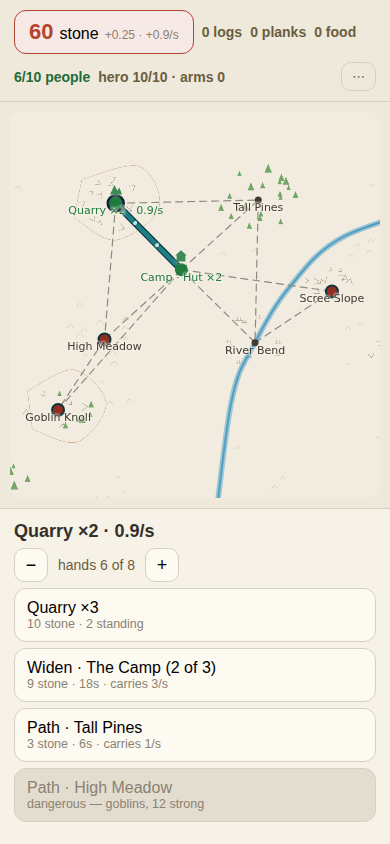
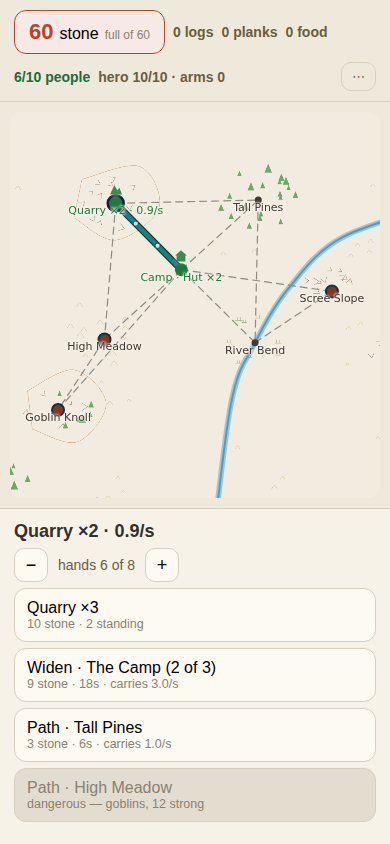
THE CARTWRIGHT: the one exponential that runs for the player
The coherence review's top finding was that every exponential in this
engine runs AGAINST the player. CURVE 1.35, armsCost 1.3 and storeCost
1.3 all compound upward, while output is strictly linear in a hard-capped
population. There was no player-side exponential anywhere.

THE BACKLOG ASKED FOR A PRODUCTION MULTIPLIER AND IT WOULD HAVE BEEN A
NO-OP. Measured before building, on a finished town — every site stacked
eight deep, every path at MAX_GAUGE, 162 people:

  makes    57.9/s
  carries  13.9/s
  wasted   76%, at the paths

MAX_GAUGE is a hard ceiling, so multiplying RATE would have multiplied
the waste and delivered nothing to the player. The exponential therefore
goes where the wall is: a cart rung multiplies what every gauge CARRIES,
which turns that dead 76% into the reward. Design rule 3 says the graph
is the logistics layer, so a multiplier on haulage is the one that
belongs on this game's board.

CART_GAIN 1.3 against a cost curve of 1.55, so each rung takes about
1.19x as long as the last — a curve, not a wall. Measured payoff on that
same maxed town: 13.9/s at no carts climbing to 48.7/s at eight, every
rung strictly better than the last, and never more than the town makes.

It runs out on purpose. A findable number of rungs fully un-chokes a
given town, after which carts buy nothing until more works are built.
Carts and works leapfrog, and the works ladder is unbounded, so the pair
is too.
[…]

Changed region(s): [[0.2769, 0.0, 0.9231, 0.0616], [0.4, 0.8009, 0.4615, 0.8318], [0.4, 0.8626, 0.4308, 0.8934]]

diff --git a/test/campbuilder.test.ts b/test/campbuilder.test.ts
@@ -9,6 +9,7 @@ import { apply, initial, flow, shown, popCap, pathKey, costOf, pathCostOf, heroM
   TAP_STONE, RATE, BASE, HUT_ROOM, GROW_SECS, CARRY, SITES, GOBLINS, CREW, GOBLIN_REGEN,
   PATH_COST, PATH_SECS, lineOf, windup, WINDUP_EVERY, regenOf, catchUp, STEP_SECS, SITE,
   richOf, MAX_GAUGE, roomOf, storeCost, STORE_BASE, STORE_ROOM,
+  carriesOf, cartCost, cartHaul, CART_GAIN,
   RATION_FOOD, RATION_HP, RATION_PACK,
   HERO_HP, HEAL_SECS, WILD_FED, EAT, CAPTIVES, type City } from '../src/camp/engine';
 import { honour } from '../src/camp/store';
@@ -1075,5 +1076,120 @@ describe('★★★ THE STOREHOUSE — a ceiling on every good', () => {
     // An old save with no storehouses at all loads at zero.
     const { store: _, ...old } = initial();
     expect(honour({ game: old as never, savedAt: 1 })!.game.store).toBe(0);
+  });
+});
+
+// ---------------------------------------------------------------------------
+// ★★★ THE CARTWRIGHT, 2026-08-08 — the coherence review's top finding: every
+// exponential in this engine runs AGAINST the player. This is the one that
+// runs for them, and it runs on the GRAPH, because the graph is where a
+// finished town's work was being thrown away.
+// ---------------------------------------------------------------------------
+describe('★★★ THE CARTWRIGHT — the one exponential that runs for the player', () => {
+  /** A finished town: every site stacked, every path at MAX_GAUGE, full pop. */
+  const maxed = (carts: number): City => {
+    const g: City = { ...initial(), goblins: {}, food: 9e5, stone: 9e5,
+      planks: 9e5, logs: 9e5, carts, stacks: {}, paths: {} };
+    for (const s of SITES) g.stacks[s.id] = s.id === 0 ? 40 : 8;
+    for (const s of SITES) for (const n of s.near) g.paths[pathKey(s.id, n)] = MAX_GAUGE;
+    return { ...g, pop: popCap(g) };
+  };
+  const totals = (g: City): { made: number; carried: number } => {
+    const f = flow(g);
+    let made = 0, carried = 0;
+    for (const s of SITES) {
+      if (s.id === 0) continue;
+      made += f.made.get(s.id) ?? 0;
+      carried += f.carried.get(s.id) ?? 0;
+    }
+    return { made, carried };
+  };
+
+  it('★★★ THE MEASUREMENT THAT CHOSE THE DESIGN — a maxed town wastes most of its work', () => {
+    // This is why the backlog's "multiply RATE.quarry" would have been a
+    // no-op: at MAX_GAUGE on every path, a finished town already throws
+    // away three quarters of what it makes. Multiplying production
+    // multiplies the waste. If this ever stops being true, the cartwright
+    // is aimed at the wrong wall and this test is the alarm.
+    const { made, carried } = totals(maxed(0));
+    expect(made).toBeGreaterThan(50);
+    expect(carried).toBeLessThan(made * 0.3);
+  });
+
+  it('★★ a cart rung raises what EVERY path carries', () => {
+    const g = maxed(0);
+    const key = pathKey(0, 4);
+    expect(carriesOf(g, key)).toBeCloseTo(MAX_GAUGE * CARRY, 9);
+    expect(carriesOf({ ...g, carts: 1 }, key))
+      .toBeCloseTo(MAX_GAUGE * CARRY * CART_GAIN, 9);
+    expect(carriesOf({ ...g, carts: 3 }, key))
+      .toBeCloseTo(MAX_GAUGE * CARRY * CART_GAIN ** 3, 9);
+    // A path that is not laid carries nothing, carts or no carts. (1 and 9
+    // are not neighbours, so this key is not in `paths` at all.)
+    expect(carriesOf({ ...g, carts: 9 }, pathKey(1, 9))).toBe(0);
+  });
+
+  it('★★★ EVERY RUNG BUYS REAL INCOME, and the ladder compounds', () => {
+    // Measured, not asserted in the abstract: 13.9/s at no carts climbing
+    // past 48/s at eight, every single rung strictly better than the last.
+    let last = 0;
+    for (let c = 0; c <= 8; c++) {
+      const now = totals(maxed(c)).carried;
+      expect(now).toBeGreaterThan(last);
+      last = now;
+    }
+    expect(totals(maxed(0)).carried).toBeGreaterThan(13);
+    expect(totals(maxed(8)).carried).toBeGreaterThan(totals(maxed(0)).carried * 3);
+  });
+
+  it('★★ it can never carry MORE than the town makes — it opens a wall, it does not mint', () => {
+    // The one way a throughput multiplier could become a cheat.
+    for (const c of [0, 4, 12, 40]) {
+      const { made, carried } = totals(maxed(c));
+      expect(carried).toBeLessThanOrEqual(made + 1e-6);
+    }
+    // And at absurd carts the town delivers everything it makes, no more.
+    expect(totals(maxed(40)).carried).toBeCloseTo(totals(maxed(40)).made, 4);
+  });
+
+  it('★ carts run out on a given town — they leapfrog with the works', () => {
+    // A finite, findable number of rungs un-chokes a maxed town; past that
+    // a cart buys nothing until more works are built. That is the pair of
+    // ladders, working — and it is why the cartwright's deed is offered
+    // only while something is actually being wasted.
+    let enough = -1;
+    for (let c = 0; c <= 40 && enough < 0; c++) {
+      if (flow(maxed(c)).choked.size === 0) enough = c;
+    }
+    expect(enough).toBeGreaterThan(0);
+    expect(enough).toBeLessThan(20);
+    // At that rung the town delivers everything it makes...
+    const { made, carried } = totals(maxed(enough));
+    expect(carried).toBeCloseTo(made, 4);
+    // ...and three times the works chokes the same carts all over again.
+    const bigger: City = { ...maxed(enough), stacks: { ...maxed(enough).stacks } };
+    for (const s of SITES) if (s.id !== 0) bigger.stacks[s.id] = 24;
+    expect(flow({ ...bigger, pop: popCap(bigger) }).choked.size).toBeGreaterThan(0);
+  });
+
+  it('★★ cost is steeper than the gain, so a rung is earned', () => {
+    expect(cartCost(0)).toEqual({ stone: 30, planks: 20 });
+    expect(cartCost(4).stone).toBe(Math.ceil(30 * 1.55 ** 4));
+    // 1.55 against a 1.3 haul: the ladder slows, it never stops.
+    expect(1.55).toBeGreaterThan(CART_GAIN);
+    const g = apply({ ...initial(), stone: 50, planks: 30 }, { type: 'cart' });
+    expect(g.carts).toBe(1);
+    expect(g.stone).toBe(20);
+    expect(g.planks).toBe(10);
+    const broke = initial();
+    expect(apply(broke, { type: 'cart' })).toBe(broke);
+  });
+
+  it('a cart count is whole at the save door, and old saves load at none', () => {
+    expect(honour({ game: { ...initial(), carts: 3 }, savedAt: 1 })).not.toBeNull();
+    expect(honour({ game: { ...initial(), carts: 2.5 }, savedAt: 1 })).toBeNull();
+    expect(honour({ game: { ...initial(), carts: -1 }, savedAt: 1 })).toBeNull();
+    const { carts: _, ...old } = initial();
+    expect(honour({ game: old as never, savedAt: 1 })!.game.carts).toBe(0);
   });
 });

diff --git a/src/camp/engine.ts b/src/camp/engine.ts
@@ -162,6 +162,9 @@ export interface City {
   /** ★ STOREHOUSES at the camp — how many stand. They are the CAP on every
    *  good; a full store wastes what arrives, the same law the paths obey. */
   store: number;
+  /** ★ CARTS — how many times the cartwright has re-shod the haulage.
+   *  The one exponential in this engine that runs FOR the player. */
+  carts: number;
   /** ★ A FIGHT IN PROGRESS, or null — the owner's own screen: our square
    *  left, three goblin squares right. Turn-based: every round is yours.
    *  `sq` is the line — a BRUTE up front (the mash trap) and two RUNTS
@@ -196,6 +199,7 @@ export const initial = (): City => ({
     Object.entries(GOBLINS).map(([k, v]) => [k, v.strength])),
   hero: { hp: 10, arms: 0, part: 0 },
   store: 0,
+  carts: 0,
   fight: null,
 });
 
@@ -306,6 +310,39 @@ export const CAPTIVES = 2;
 /** What one path-gauge carries, per second, of everything put together. */
 export const CARRY = 1.0;
 export const MAX_GAUGE = 3;
+
+/** ★★★ THE CARTWRIGHT, 2026-08-08 — THE ONE EXPONENTIAL THAT RUNS FOR THE
+ *  PLAYER. The coherence review's finding was that there is no player-side
+ *  exponential anywhere: `CURVE` and `armsCost` compound against you, while
+ *  output is strictly LINEAR in a hard-capped population.
+ *
+ *  ⚠ THE BACKLOG ASKED FOR A PRODUCTION MULTIPLIER AND IT WOULD HAVE BEEN
+ *  A NO-OP. Measured before building: a finished town — every site stacked
+ *  eight deep, every path at MAX_GAUGE, 162 people — makes 57.9/s and
+ *  carries 13.9/s. **76% of a maxed town's work is already thrown away at
+ *  the paths**, and MAX_GAUGE is a hard ceiling, so multiplying production
+ *  would have multiplied the waste and nothing else.
+ *
+ *  So the exponential goes where the wall is. A cart rung multiplies what
+ *  every gauge CARRIES, which turns that dead 76% into the reward — and
+ *  design rule 3 says the graph is the logistics layer, so a multiplier on
+ *  haulage is the one that belongs on this game's board.
+ *
+ *  It runs out on purpose: ~5 rungs fully un-choke a given town, after
+ *  which carts do nothing until you build more works. Carts and works
+ *  leapfrog, and the works ladder is unbounded, so the pair is too. */
+export const CART_GAIN = 1.3;
+/** How much more every path carries, all carts together. */
+export const cartHaul = (g: City): number => Math.pow(CART_GAIN, g.carts);
+/** What one path can carry a second — gauge, times the carts. */
+export const carriesOf = (g: City, key: string): number =>
+  (g.paths[key] ?? 0) * CARRY * cartHaul(g);
+/** The next cart rung. 1.55 against a 1.3 gain: each rung takes ~1.19×
+ *  as long as the last, which is a curve rather than a wall. */
+export const cartCost = (have: number): { stone: number; planks: number } => ({
+  stone: Math.ceil(30 * Math.pow(1.55, have)),
+  planks: Math.ceil(20 * Math.pow(1.55, have)),
+});
 
 /** Each hut houses this many people — one hut per crew, ~50 lifetime.
  *  (At 2, hut #99 cost five million planks. Nobody was living there.) */
@@ -580,7 +617,7 @@ export function flow(g: City): Flow {
   for (const f of flows) {
     let scale = 1;
     for (const { e } of f.legs) {
-      const cap = (g.paths[e] ?? 0) * CARRY;
+      const cap = carriesOf(g, e);
       const l = load1.get(e) ?? 0;
       if (l > cap + 1e-9) {
         choked.add(e);
@@ -620,7 +657,7 @@ export function flow(g: City): Flow {
       const share = sawing * ((made.get(id) ?? 0) / millCap);
       let scale = 1;
       for (const { e } of legsOf.get(id)!) {
-        const cap = (g.paths[e] ?? 0) * CARRY;
+        const cap = carriesOf(g, e);
         const room = Math.max(0, cap - (load1.get(e) ?? 0));
         const want = load2.get(e) ?? 0;
         if (want > room + 1e-9) {
@@ -704,6 +741,8 @@ export type Action =
   | { type: 'arm' }
   /** Raise the next storehouse at the camp — room for every good. */
   | { type: 'stow' }
+  /** Set the cartwright to work — every path carries more. */
+  | { type: 'cart' }
   /** Send the hero at held ground — the battle strip opens. */
   | { type: 'assail'; id: number }
   /** Attack the targeted square. The line answers. */
@@ -901,6 +940,17 @@ export function apply(g: City, a: Action): City {
         stone: g.stone - price.stone,
         planks: g.planks - price.planks,
         store: g.store + 1,
+      };
+    }
+
+    case 'cart': {
+      const price = cartCost(g.carts);
+      if (g.stone < price.stone || g.planks < price.planks) return g;
+      return {
+        ...g,
+        stone: g.stone - price.stone,
+        planks: g.planks - price.planks,
+        carts: g.carts + 1,
       };
     }
 

diff --git a/src/ui/Camp.svelte b/src/ui/Camp.svelte
@@ -8,7 +8,7 @@
   import { apply, catchUp, initial, flow, shown, popCap, pathKey, costOf, pathCostOf,
     priceLine, unlayable, unraisable, unassailable, heroHit, armsCost, hunger,
     heroMax, WILD_FED, SITE, GOBLINS, RATE, TAP_STONE, MAX_GAUGE, CREW, PATH_SECS,
-    richOf, storeCost, roomOf, STORE_ROOM,
+    richOf, storeCost, roomOf, STORE_ROOM, cartCost, cartHaul, CARRY, CART_GAIN,
     windup, RATION_FOOD, RATION_HP,
     type City } from '../camp/engine';
   import { load, save, wipe, exportRaw, importRaw, elapsedSince } from '../camp/store';
@@ -44,6 +44,14 @@
   /** ★ Is this good at the storehouse ceiling? Everything arriving past it
    *  is WASTE, the same law the paths obey — so the chip says so. */
   const brim = (n: number): boolean => n >= roomOf(game) - 1e-9;
+  /** ★ WHAT THE PATHS ARE EATING, per second, over the whole town. This is
+   *  the cartwright's case, and without it on screen the deed is a number
+   *  with no reason attached. */
+  const wasted = $derived((() => {
+    let out = 0;
+    for (const [id, m] of f.made) out += Math.max(0, m - (f.carried.get(id) ?? 0));
+    return out;
+  })());
   /** Planks the mills can actually deliver right now: capacity, starved to
    *  the log supply when the pile is dry. The header never overpromises. */
   const planksNow = $derived(
@@ -200,6 +208,24 @@
         why: noRoom ? `${sp.stone} stone · ${sp.planks} planks` : null,
         go: () => act({ type: 'stow' }),
       });
+      // ★ THE CARTWRIGHT — the one exponential that runs FOR the player,
+      // and it runs on the graph because that is where the waste is.
+      // ⚠ OFFERED ONLY WHILE SOMETHING IS ACTUALLY CHOKED. A cart buys
+      // exactly nothing for a town whose paths already carry everything
+      // it makes, and a deed that takes 30 stone to do nothing is a trap
+      // laid for the first hour, when no path is anywhere near its cap.
+      if (wasted > 0.05) {
+      const cp = cartCost(game.carts);
+      const noCart = game.stone < cp.stone || game.planks < cp.planks;
+      out.push({
+        label: `Carts ×${game.carts + 1}`,
+        note: `${cp.stone} stone · ${cp.planks} planks → every gauge carries `
+          + `${(CARRY * cartHaul(game) * CART_GAIN).toFixed(2)}/s`
+          + ` · ${wasted.toFixed(1)}/s is being thrown away now`,
+        why: noCart ? `${cp.stone} stone · ${cp.planks} planks` : null,
+        go: () => act({ type: 'cart' }),
+      });
+      }
       const p = armsCost(game.hero.arms);
       const short = game.stone < p.stone || game.planks < p.planks;
       out.push({
@@ -229,7 +255,8 @@
       const w = unlayable(game, s.id, n);
       out.push({
         label: gauge === 0 ? `Path · ${t.name}` : `Widen · ${t.name} (${gauge} of ${MAX_GAUGE})`,
-        note: w ?? `${pathCostOf(gauge)} stone · ${PATH_SECS * (gauge + 1)}s · carries ${((gauge + 1)).toFixed(0)}/s`,
+        note: w ?? `${pathCostOf(gauge)} stone · ${PATH_SECS * (gauge + 1)}s · carries `
+          + `${((gauge + 1) * CARRY * cartHaul(game)).toFixed(1)}/s`,
         why: w,
         go: () => act({ type: 'lay', a: s.id, b: n }),
       });

diff --git a/src/camp/store.ts b/src/camp/store.ts
@@ -26,6 +26,7 @@ export function honour(b: Blob | null | undefined): { game: City; savedAt: numbe
   }
   // Storehouses are whole buildings, like every other count.
   if (g.store !== undefined && !whole(g.store, 0, 9999)) return null;
+  if (g.carts !== undefined && !whole(g.carts, 0, 9999)) return null;
   // ⚠ VALUES, NOT JUST SHAPES (review finding, 2026-08-08): `stacks:{1:"x"}`
   // used to load clean, NaN-poison every rate through `flow()`, and then the
   // NEXT save — now carrying `NaN` stone — was refused outright. A junk import

diff --git a/docs/DECISIONS.md b/docs/DECISIONS.md
@@ -1851,3 +1851,4 @@ Entries above this line are long because the one-line rule did not exist yet.
 - 2026-08-08 — **THE REVIEW ROUND, all five findings fixed** (the-graph, fresh context). (1) THE SAVE DOOR: `honour()` now checks every map to the leaf — a fight's `site` must be REAL held ground (`site:99` used to load and kill the screen on `SITE.get(99)!.name`), `packs` is required (missing read `undefined<=0`→false, spent to NaN, and `NaN<=0` is false forever: unlimited rations on every imported save), `stacks`/`paths`/`crew`/`goblins` values are checked (junk used to NaN-poison `flow()`, and the NEXT save — carrying NaN stone — was then refused outright, so a bad import ate the town a session later), hands must be whole, path keys must name real neighbours in sorted form. (2) REGEN IS A SHARE OF SPAWN (0.004×strength), not a flat 0.05: the flat rate cost 0.75 strength per hp healed regardless of holding while sortie damage grows with arms, so sites 7/8/9 could be GROUND OUT one rung under the arms gate (+0.75/+2.50/+4.25 net per chip-flee-heal cycle). Fight one is untouched (0.048 vs 0.05). (3) CARRIER DIRECTION comes from `flow().dirs` (net signed load per edge) instead of the view guessing from site-id order — the mesh's own showpiece, logs walking OUT to a higher-id mill, ran backwards. (4) THE AWAY RUN IS CHUNKED (`catchUp`, 60s steps) AND the wild's table is now a ceiling WITHIN a step: a breadless town used to fill its huts overnight off one `fed` reading taken at second zero, and a path 2s from done carried nothing for 12 hours. (5) The phantom citation is real: the exhaustive ladder solver is committed as "THE LADDER HOLDS — solved, not felt" and runs every push (win at ladder arms, LOSE at −1, mash loses, every rung), plus a grind test that prices the flee-regroup cycle. Also: the panel's "16 of 2 people" — the owner's own "12/10 people strange", fixed in the header months ago and never here.
 - 2026-08-08 — **WHY TAKE THE GROUND** (owner: *"no reason to have a site protected by goblins where you can build a quarry because you have unlimited defenceless quarries near start"*, confirmed by four independent reviews). Two mechanisms. (1) THE TWO GATES CARRY THEIR OWN ROAD HOME: Scree Slope and Goblin Knoll gain a direct `near` edge to the camp, drawn as a dotted line from minute one (you can SEE the artery you cannot have) and unlayable while held. Before this, every eastern good crossed `0|3` behind the mill's planks and EVERY mouthful of food crossed `0|4` — one 3.0/s edge that walled the town at 66 people against a design saying 200. Taking the Knoll doubles the food artery to 6.0/s and moves the wall to 126; taking the Scree frees the mill's edge. A prize no amount of building at Rock Face can buy. (2) HELD GROUND IS RICHER: `rich` per site multiplied into every hand's output — Scree ×1.5, Knoll ×2, Dark Pines ×2.5, High Quarry ×3, Green Vale ×3.5, scaled to the garrison. One ×3 pit makes what three plain pits make but costs copy #1 rather than #1-3, and the lead is permanent at `ln(M)/ln(1.35)` ≈ 3.7 copies; bounded because both sites still climb 1.35. The panel names both prizes BEFORE the fight is bought. NOT fixed this session and still open: no player-side exponential (RATE never changes), the `tap` leak, `starving` reading production not delivery, farms over-staffing, auto-staffing blind to chokes.
 - 2026-08-08 — **THE STOREHOUSE** (owner: *"i also think we'd need to do some storage capacity"*). Every good is capped and overflow is WASTE — the paths' own law in a second currency. `STORE_BASE` 60 of each good, `STORE_ROOM` +60 flat per house (flat, not compounding, so the answer to "I need a bigger number" is always one more building), `storeCost` 25 stone + 15 planks on 1.3 so it races the huts for the mill's output. Raised at the camp beside Arms, via a new `stow` action; `store` is additive on the save (old saves load at 0, validated whole at the door). Consequences, both wanted: stone stops being infinite (the review's "6468 stone by round two and it buys nothing" — twelve hours away now banks 60 and spills the rest, and the away line reads +55 instead of +6462), and THE CAP GATES WHAT YOU CAN SAVE FOR (Arms ×9 = 66 stone, Hut #15 = 71 planks, both over a bare camp's 60; every rung below fits, so nothing is walled early). A stock already over the ceiling is held, never confiscated. Header says `full of 60` on the chip, panel says `stores hold 60` — waste nobody can see is the choke bug in a different hat.
+- 2026-08-08 — **THE CARTWRIGHT: the one exponential that runs FOR the player** (coherence review's top finding — `CURVE`, `armsCost` and `storeCost` all compound against you while output is linear in a capped pop). ⚠ THE BACKLOG ASKED FOR A PRODUCTION MULTIPLIER AND IT WOULD HAVE BEEN A NO-OP: measured first, a maxed town (every site ×8, every path at MAX_GAUGE, 162 people) makes 57.9/s and carries 13.9/s — 76% already thrown away at the paths, and MAX_GAUGE is a hard ceiling, so multiplying RATE multiplies the waste. So the exponential went where the wall is: `carts` multiply what every gauge CARRIES (CART_GAIN 1.3, cartCost 1.55 — steeper than the gain, so each rung takes ~1.19× as long), which converts the dead 76% into the reward and puts the multiplier on the logistics layer where design rule 3 says the game lives. Measured: 13.9/s → 48.7/s over eight rungs, monotone, and never more than the town makes. Runs out on purpose — a findable number of rungs un-chokes a given town, then carts idle until more works are built; carts and works leapfrog and the works ladder is unbounded. The deed is offered ONLY while something is actually being wasted, because 30 stone for nothing is a first-hour trap. Save: `carts` additive, old saves load at 0.

diff --git a/docs/BACKLOG.md b/docs/BACKLOG.md
@@ -670,7 +670,7 @@ Both confirmed in code, and both are the tip of a class.
 - [ ] "998 food · fields bring 0.0/s" — numbers describing nothing.
 
 **THE GENRE PASS (the-redditor, verdict FINE I GUESS — "yes to minute 20, no to minute 40")**
-- [ ] **★ NO PLAYER-SIDE EXPONENTIAL AT ALL.** `RATE` is four constants that never change for the whole run. No upgrades, no research, no tiers. Output is strictly LINEAR in pop, and pop is hard-capped — while `CURVE` and `armsCost` are exponential. **Every exponential in this engine runs against the player; not one runs for them.** → one multiplier rung before prestige (a `tools` purchase multiplying `RATE.quarry`, ~15 lines) is the game's first player-side exponential.
+- [x] **★ NO PLAYER-SIDE EXPONENTIAL AT ALL.** ✔ SHIPPED 2026-08-08 as THE CARTWRIGHT — but NOT as written here. A `RATE` multiplier was measured first and would have been a no-op: a maxed town already wastes 76% of its work at the paths, so the exponential went on HAULAGE instead. See `docs/CITY.md`. Original text: **★ NO PLAYER-SIDE EXPONENTIAL AT ALL.** `RATE` is four constants that never change for the whole run. No upgrades, no research, no tiers. Output is strictly LINEAR in pop, and pop is hard-capped — while `CURVE` and `armsCost` are exponential. **Every exponential in this engine runs against the player; not one runs for them.** → one multiplier rung before prestige (a `tools` purchase multiplying `RATE.quarry`, ~15 lines) is the game's first player-side exponential.
 - [ ] **Conquered ground is throughput-NEGATIVE, not merely fungible.** All food crosses `0|4` (site 4 direct; site 9 via 9→7→6→4→0) capped at 3.0/s; `0|3` carries the sawmill's planks (12 hands = 3.0/s = the whole cap), so taking Scree Slope and High Quarry **can only steal plank throughput** — `flow()` stage 2 does exactly that (`room = max(0, cap - load1[e])`). **The map has no second road home.** → the zero-code fix: add a `near` edge (`9→0` or `8→0`) so liberation opens an artery.
 - [ ] **★ THE POP CEILING IS 66; the design says ~200.** `hunger = (pop-6)×0.05`, all food over one 3.0/s edge → `pop_max = 6 + 3.0/0.05 = 66`. `HUT_ROOM=4` × ~50 lifetime huts = `popCap` 202. **Huts 17-50 are dead — two thirds of the only repeated purchase.** The EAT comment already records the wall moving 36→66; it needs to be a number, not a roadmap note.
 - [ ] **Auto-staffing breaks CITY.md rule 2 ("no babysitting") twice.** (a) Farms take EVERY free slot before anyone else works: farm ×2 = 1.6 food/s against pop-12 hunger of 0.3/s — two thirds of the town banking food nobody spends (`play-city-choked.png`: 499 food; `play-city-carriers.png`: 998). *(This is the "watch item" chad flagged in NEXT.md — now measured.)* → farms take `ceil((hunger×1.25 - farmRaw)/RATE.farm)` hands, then join the round-robin. (b) Staffing is computed BEFORE chokes, so the round-robin loads 20 hands onto a site whose path carries 1.0/s — `play-city-choked.png` is the bug on screen: *makes 1.8 · carries 1.0*, hands 12 of 16, **five people standing in a hole**, placed there by the auto meant to remove babysitting.

diff --git a/docs/CITY.md b/docs/CITY.md
@@ -256,3 +256,40 @@ A stock already OVER the ceiling is held, never confiscated: it simply
 cannot grow. The header says `full of 60` on the chip and the camp panel
 says `stores hold 60`, because waste nobody can see is the choke bug
 wearing a different hat.
+
+
+## ★★★ THE CARTWRIGHT — built 2026-08-08
+
+The coherence review's top finding: **every exponential in this engine ran
+against the player.** `CURVE` 1.35, `armsCost` 1.3, `storeCost` 1.3 all
+compound upward, while output is strictly LINEAR in a hard-capped
+population. There was no player-side exponential anywhere.
+
+**The backlog asked for a production multiplier, and it would have been a
+no-op.** Measured before building — a finished town, every site stacked
+eight deep, every path at `MAX_GAUGE`, 162 people:
+
+| | |
+|---|---|
+| makes | 57.9/s |
+| carries | 13.9/s |
+| **wasted at the paths** | **76%** |
+
+`MAX_GAUGE` is a hard ceiling, so multiplying `RATE` would have multiplied
+the waste and delivered nothing. **The exponential goes where the wall is.**
+A cart rung multiplies what every gauge CARRIES (`CART_GAIN` 1.3, cost
+1.55), turning that dead 76% into the reward — and design rule 3 says the
+graph is the logistics layer, so a multiplier on haulage is the one that
+belongs on this game's board.
+
+Measured payoff on that same maxed town: 13.9/s at no carts → 48.7/s at
+eight, every rung strictly better than the last, and it can never carry
+more than the town makes. It **runs out on purpose** — a findable number of
+rungs fully un-chokes a given town, after which carts buy nothing until
+more works are built. Carts and works leapfrog; the works ladder is
+unbounded, so the pair is too.
+
+⚠ **The deed is offered only while something is actually being wasted.**
+A cart buys exactly nothing for a town whose paths already carry everything
+it makes, and 30 stone for nothing is a trap laid squarely in the first
+hour, when no path is near its cap.
